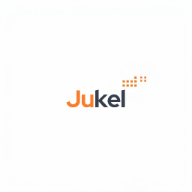
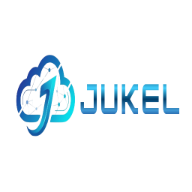
fix: changed colours in website

Changed region(s): [[0.0625, 0.2812, 0.9375, 0.7188]]

diff --git a/src/components/AwsServicesSection.tsx b/src/components/AwsServicesSection.tsx
@@ -67,9 +67,9 @@ const AwsServicesSection = () => {
 
   return (
     <section id="aws-services" className="section-padding relative overflow-hidden" ref={ref}>
-      <div className="absolute inset-0 bg-navy" />
-      <div className="absolute top-20 right-10 w-72 h-72 rounded-full bg-primary/5 blur-3xl float-animation" />
-      <div className="absolute bottom-20 left-10 w-96 h-96 rounded-full bg-blue-500/5 blur-3xl float-animation-delayed" />
+      <div className="absolute inset-0 bg-primary/5" />
+      <div className="absolute top-20 right-10 w-72 h-72 rounded-full bg-primary/10 blur-3xl float-animation" />
+      <div className="absolute bottom-20 left-10 w-96 h-96 rounded-full bg-blue-400/10 blur-3xl float-animation-delayed" />
 
       <div className="container mx-auto relative z-10">
         <motion.div
@@ -81,11 +81,11 @@ const AwsServicesSection = () => {
           <span className="text-sm font-semibold text-primary tracking-wider uppercase">
             Powering Critical Apps
           </span>
-          <h2 className="text-3xl sm:text-4xl lg:text-5xl font-bold mt-3 mb-4 text-white">
+          <h2 className="text-3xl sm:text-4xl lg:text-5xl font-bold mt-3 mb-4 text-foreground">
             AWS Services for{" "}
             <span className="gradient-text">Every Workload</span>
           </h2>
-          <p className="text-white/50 max-w-2xl mx-auto">
+          <p className="text-muted-foreground max-w-2xl mx-auto">
             From web apps and SaaS platforms to fintech and automation — these are the
             AWS services powering modern businesses every day.
           </p>
@@ -99,7 +99,7 @@ const AwsServicesSection = () => {
               animate={isInView ? { opacity: 1, y: 0 } : {}}
               transition={{ duration: 0.5, delay: i * 0.1 }}
               whileHover={{ y: -6, transition: { duration: 0.2 } }}
-              className="bg-white/5 backdrop-blur-sm border border-white/10 rounded-2xl p-5 sm:p-8 group hover:border-primary/30 transition-all duration-300"
+              className="bg-white/80 backdrop-blur-sm border border-primary/10 rounded-2xl p-5 sm:p-8 group hover:border-primary/30 shadow-sm transition-all duration-300"
             >
               <div className="flex items-center gap-3 mb-4">
                 <div className="w-10 h-10 rounded-xl bg-primary/15 flex items-center justify-center flex-shrink-0">
@@ -111,11 +111,16 @@ const AwsServicesSection = () => {
               </div>
 
               <div className="flex items-center gap-2 mb-3">
-                <FaAws className="text-xl text-white/40 flex-shrink-0" />
-                <h3 className="text-base sm:text-lg font-bold text-white">{item.service}</h3>
+                <div className="w-8 h-8 rounded bg-white border border-gray-200 flex items-center justify-center flex-shrink-0 p-1">
+                  <svg viewBox="0 0 304 182" className="w-full h-full">
+                    <path d="M86.4 66.4c0 3.7.4 6.7 1.1 8.9.8 2.2 1.8 4.6 3.2 7.2.5.8.7 1.6.7 2.3 0 1-.6 2-1.9 3l-6.3 4.2c-.9.6-1.8.9-2.6.9-1 0-2-.5-3-1.4-1.4-1.5-2.6-3.1-3.6-4.7-1-1.7-2-3.6-3.1-5.9-7.8 9.2-17.6 13.8-29.4 13.8-8.4 0-15.1-2.4-20-7.2-4.9-4.8-7.4-11.2-7.4-19.2 0-8.5 3-15.4 9.1-20.6 6.1-5.2 14.2-7.8 24.5-7.8 3.4 0 6.9.3 10.6.8 3.7.5 7.5 1.3 11.5 2.2v-7.3c0-7.6-1.6-12.9-4.7-16-3.2-3.1-8.6-4.6-16.3-4.6-3.5 0-7.1.4-10.8 1.3-3.7.9-7.3 2-10.8 3.4-1.6.7-2.8 1.1-3.5 1.3-.7.2-1.2.3-1.6.3-1.4 0-2.1-1-2.1-3.1v-4.9c0-1.6.2-2.8.7-3.5.5-.7 1.4-1.4 2.8-2.1 3.5-1.8 7.7-3.3 12.6-4.5 4.9-1.3 10.1-1.9 15.6-1.9 11.9 0 20.6 2.7 26.2 8.1 5.5 5.4 8.3 13.6 8.3 24.6v32.4h.1zm-40.6 15.2c3.3 0 6.7-.6 10.3-1.8 3.6-1.2 6.8-3.4 9.5-6.4 1.6-1.9 2.8-4 3.4-6.4.6-2.4 1-5.3 1-8.7v-4.2c-2.9-.7-6-1.3-9.2-1.7-3.2-.4-6.3-.6-9.4-.6-6.7 0-11.6 1.3-14.9 4-3.3 2.7-4.9 6.5-4.9 11.5 0 4.7 1.2 8.2 3.7 10.6 2.4 2.5 5.9 3.7 10.5 3.7zm80.3 10.8c-1.8 0-3-.3-3.8-1-.8-.6-1.5-2-2.1-3.9l-23.5-77.3c-.6-2-0.9-3.3-.9-4 0-1.6.8-2.5 2.4-2.5h9.8c1.9 0 3.2.3 3.9 1 .8.6 1.4 2 2 3.9l16.8 66.2 15.6-66.2c.5-2 1.1-3.3 1.9-3.9.8-.6 2.2-1 4-1h8c1.9 0 3.2.3 4 1 .8.6 1.5 2 1.9 3.9l15.8 67 17.3-67c.6-2 1.3-3.3 2-3.9.8-.6 2.1-1 3.9-1h9.3c1.6 0 2.5.8 2.5 2.5 0 .5-.1 1-.2 1.6-.1.6-.3 1.4-.7 2.5l-24.1 77.3c-.6 2-1.3 3.3-2.1 3.9-.8.6-2.1 1-3.8 1h-8.6c-1.9 0-3.2-.3-4-1-.8-.7-1.5-2-1.9-4l-15.5-64.5-15.4 64.4c-.5 2-1.1 3.3-1.9 4-.8.7-2.2 1-4 1h-8.6zm128.5 2.7c-5.2 0-10.4-.6-15.4-1.8-5-1.2-8.9-2.5-11.5-4-1.6-.9-2.7-1.9-3.1-2.8-.4-.9-.6-1.9-.6-2.8v-5.1c0-2.1.8-3.1 2.3-3.1.6 0 1.2.1 1.8.3.6.2 1.5.6 2.5 1 3.4 1.5 7.1 2.7 11 3.5 4 .8 7.9 1.2 11.9 1.2 6.3 0 11.2-1.1 14.6-3.3 3.4-2.2 5.2-5.4 5.2-9.5 0-2.8-.9-5.1-2.7-7-1.8-1.9-5.2-3.6-10.1-5.2l-14.5-4.5c-7.3-2.3-12.7-5.7-16-10.2-3.3-4.4-5-9.3-5-14.5 0-4.2.9-7.9 2.7-11.1 1.8-3.2 4.2-6 7.2-8.2 3-2.3 6.4-4 10.4-5.2 4-1.2 8.2-1.7 12.6-1.7 2.2 0 4.5.1 6.7.4 2.3.3 4.4.7 6.5 1.1 2 .5 3.9 1 5.7 1.6 1.8.6 3.2 1.2 4.2 1.8 1.4.8 2.4 1.6 3 2.5.6.8.9 1.9.9 3.3v4.7c0 2.1-.8 3.2-2.3 3.2-.8 0-2.1-.4-3.8-1.2-5.7-2.6-12.1-3.9-19.2-3.9-5.7 0-10.2.9-13.3 2.8-3.1 1.9-4.7 4.8-4.7 8.9 0 2.8 1 5.2 3 7.1 2 1.9 5.7 3.8 11 5.5l14.2 4.5c7.2 2.3 12.4 5.5 15.5 9.6 3.1 4.1 4.6 8.8 4.6 14 0 4.3-.9 8.2-2.6 11.6-1.8 3.4-4.2 6.4-7.3 8.8-3.1 2.5-6.8 4.3-11.1 5.6-4.5 1.4-9.2 2.1-14.3 2.1z" fill="#232F3E"/>
+                    <path d="M273.5 143.7c-32.9 24.3-80.7 37.2-121.8 37.2-57.6 0-109.5-21.3-148.7-56.7-3.1-2.8-.3-6.6 3.4-4.4 42.4 24.6 94.7 39.5 148.8 39.5 36.5 0 76.6-7.6 113.5-23.2 5.5-2.5 10.2 3.6 4.8 7.6zm13.7-15.6c-4.2-5.4-27.8-2.6-38.5-1.3-3.2.4-3.7-2.4-.8-4.5 18.8-13.2 49.7-9.4 53.3-5 3.6 4.5-1 35.4-18.6 50.2-2.7 2.3-5.3 1.1-4.1-1.9 4-9.9 12.9-32.2 8.7-37.5z" fill="#FF9900"/>
+                  </svg>
+                </div>
+                <h3 className="text-base sm:text-lg font-bold text-foreground">{item.service}</h3>
               </div>
 
-              <p className="text-white/50 text-sm leading-relaxed mb-5">
+              <p className="text-muted-foreground text-sm leading-relaxed mb-5">
                 {item.description}
               </p>
 

diff --git a/src/index.css b/src/index.css
@@ -11,51 +11,51 @@
   }
 
   :root {
-    --background: 30 100% 97%;
-    --foreground: 220 20% 14%;
+    --background: 208 40% 97%;
+    --foreground: 208 30% 14%;
 
     --card: 0 0% 100%;
-    --card-foreground: 220 20% 14%;
+    --card-foreground: 208 30% 14%;
 
     --popover: 0 0% 100%;
-    --popover-foreground: 220 20% 14%;
+    --popover-foreground: 208 30% 14%;
 
-    --primary: 24 95% 53%;
+    --primary: 208 100% 32%;
     --primary-foreground: 0 0% 100%;
 
-    --secondary: 24 100% 96%;
-    --secondary-foreground: 24 95% 40%;
+    --secondary: 202 80% 94%;
+    --secondary-foreground: 208 100% 28%;
 
-    --muted: 220 14% 96%;
-    --muted-foreground: 220 10% 46%;
+    --muted: 208 14% 96%;
+    --muted-foreground: 208 10% 46%;
 
-    --accent: 24 100% 96%;
-    --accent-foreground: 24 95% 40%;
+    --accent: 188 80% 94%;
+    --accent-foreground: 202 100% 35%;
 
     --destructive: 0 84.2% 60.2%;
     --destructive-foreground: 0 0% 100%;
 
-    --border: 220 13% 91%;
-    --input: 220 13% 91%;
-    --ring: 24 95% 53%;
+    --border: 208 13% 91%;
+    --input: 208 13% 91%;
+    --ring: 208 100% 32%;
 
     --radius: 0.75rem;
 
-    --hero-gradient: linear-gradient(135deg, hsl(24 95% 53%) 0%, hsl(30 100% 60%) 50%, hsl(35 100% 65%) 100%);
+    --hero-gradient: linear-gradient(135deg, hsl(208 100% 32%) 0%, hsl(202 100% 41%) 50%, hsl(188 100% 45%) 100%);
     --glass: 0 0% 100% / 0.8;
-    --cloud-bg: 220 30% 97%;
-    --cloud-accent: 210 40% 94%;
-    --navy: 220 40% 13%;
-    --navy-light: 220 25% 20%;
+    --cloud-bg: 208 30% 97%;
+    --cloud-accent: 202 40% 94%;
+    --navy: 208 40% 13%;
+    --navy-light: 208 25% 20%;
 
     --sidebar-background: 0 0% 98%;
     --sidebar-foreground: 240 5.3% 26.1%;
-    --sidebar-primary: 24 95% 53%;
+    --sidebar-primary: 208 100% 32%;
     --sidebar-primary-foreground: 0 0% 100%;
-    --sidebar-accent: 24 100% 96%;
-    --sidebar-accent-foreground: 24 95% 40%;
-    --sidebar-border: 220 13% 91%;
-    --sidebar-ring: 24 95% 53%;
+    --sidebar-accent: 202 80% 94%;
+    --sidebar-accent-foreground: 208 100% 28%;
+    --sidebar-border: 208 13% 91%;
+    --sidebar-ring: 208 100% 32%;
   }
 }
 
@@ -83,14 +83,14 @@
   }
 
   .gradient-text {
-    @apply bg-clip-text text-transparent bg-gradient-to-r from-primary to-[hsl(35,100%,55%)];
+    @apply bg-clip-text text-transparent bg-gradient-to-r from-primary to-[hsl(188,100%,45%)];
   }
 
   .cloud-pattern {
     background-image:
-      radial-gradient(ellipse 600px 200px at 20% 80%, hsl(24 95% 53% / 0.06) 0%, transparent 70%),
-      radial-gradient(ellipse 500px 300px at 80% 20%, hsl(210 60% 70% / 0.08) 0%, transparent 70%),
-      radial-gradient(ellipse 400px 150px at 50% 50%, hsl(24 95% 53% / 0.04) 0%, transparent 70%);
+      radial-gradient(ellipse 600px 200px at 20% 80%, hsl(208 100% 32% / 0.06) 0%, transparent 70%),
+      radial-gradient(ellipse 500px 300px at 80% 20%, hsl(188 100% 45% / 0.08) 0%, transparent 70%),
+      radial-gradient(ellipse 400px 150px at 50% 50%, hsl(202 100% 41% / 0.04) 0%, transparent 70%);
   }
 
   .float-animation {
@@ -113,6 +113,6 @@
 }
 
 @keyframes pulse-glow {
-  0%, 100% { box-shadow: 0 0 20px hsl(24 95% 53% / 0.2); }
-  50% { box-shadow: 0 0 40px hsl(24 95% 53% / 0.4); }
+  0%, 100% { box-shadow: 0 0 20px hsl(208 100% 32% / 0.2); }
+  50% { box-shadow: 0 0 40px hsl(208 100% 32% / 0.4); }
 }

diff --git a/src/components/Navbar.tsx b/src/components/Navbar.tsx
@@ -44,18 +44,23 @@ const Navbar = () => {
     >
       <div className="container mx-auto flex items-center justify-between px-4 sm:px-6 h-14 sm:h-16">
         <Link to="/" className="flex-shrink-0 -my-8">
-          <img src="/logo.png" alt="Jukel" className="h-32 sm:h-40 w-auto object-contain" />
+          <img src="/logo-3.png" alt="Jukel" className="h-24 sm:h-32 w-auto object-contain" />
         </Link>
 
-        {/* Desktop Nav - Water drop pill with glass background */}
         <div className="hidden md:flex items-center gap-1 bg-white/40 backdrop-blur-xl border border-white/50 rounded-full px-2 py-1.5 shadow-lg shadow-black/5">
           {navLinks.map((link) => (
             <button
               key={link.label}
               onClick={() => handleNavClick(link.href)}
-              className="text-sm font-medium text-muted-foreground hover:text-primary hover:bg-white/60 px-4 py-2 rounded-full transition-all duration-300"
+              className="relative text-sm font-medium text-muted-foreground hover:text-primary hover:bg-white/60 px-4 py-2 rounded-full transition-all duration-300"
             >
               {link.label}
+              {link.href === "#aws-services" && (
+                <svg viewBox="0 0 200 60" className="absolute -bottom-1.5 left-1/2 -translate-x-1/2 w-14 h-3">
+                  <path d="M10 30 C60 60, 140 60, 190 30" stroke="#FF9900" strokeWidth="6" fill="none" strokeLinecap="round" />
+                  <path d="M180 28 L190 30 L182 36" fill="none" stroke="#FF9900" strokeWidth="6" strokeLinecap="round" strokeLinejoin="round" />
+                </svg>
+              )}
             </button>
           ))}
           <button

diff --git a/src/components/HeroSection.tsx b/src/components/HeroSection.tsx
@@ -3,7 +3,7 @@ import { FiArrowRight } from "react-icons/fi";
 import useEmblaCarousel from "embla-carousel-react";
 import Autoplay from "embla-carousel-autoplay";
 
-const heroImages = ["/hero-1.jpg", "/hero-2.jpg", "/hero-3.jpg", "/hero-4.jpg"];
+const heroImages = ["/jukel-hero-1.jpg", "/jukel-hero-2.jpg", "/jukel-hero-3.jpg", "/jukel-hero-4.jpg"];
 
 const HeroSection = () => {
   const [emblaRef] = useEmblaCarousel({ loop: true }, [
@@ -15,7 +15,7 @@ const HeroSection = () => {
       id="home"
       className="relative min-h-screen flex items-center overflow-hidden bg-[hsl(var(--navy))] mt-14 sm:mt-16"
     >
-      
+
       <div className="absolute top-1/2 right-1/4 w-[600px] h-[600px] rounded-full bg-blue-500/10 blur-[120px]" />
       <div className="absolute bottom-0 left-1/3 w-[400px] h-[400px] rounded-full bg-primary/8 blur-[100px]" />
 
@@ -35,8 +35,9 @@ const HeroSection = () => {
               transition={{ duration: 0.6, delay: 0.1 }}
               className="text-3xl sm:text-4xl md:text-5xl lg:text-6xl font-bold leading-tight mb-4 sm:mb-6 text-white"
             >
-              Your AWS Partner with{" "}
-              <span className="text-primary">seamless partnerships</span>
+              Your{" "}
+              <span className="text-[#FF9900]">AWS Partner</span>{" "}with{" "}
+              <span className="">seamless partnerships</span>
             </motion.h1>
 
             <motion.p

diff --git a/src/components/Footer.tsx b/src/components/Footer.tsx
@@ -32,7 +32,7 @@ const Footer = () => {
           {/* Brand */}
           <div>
             <div className="mb-4">
-              <img src="/logo.png" alt="Jukel" className="h-20 sm:h-24 w-auto object-contain" />
+              <img src="/logo-3.png" alt="Jukel" className="h-20 sm:h-24 w-auto object-contain" />
             </div>
             <p className="text-primary-foreground/60 text-sm leading-relaxed">
               Your trusted AWS partner for cloud migration, optimization, and managed services.
